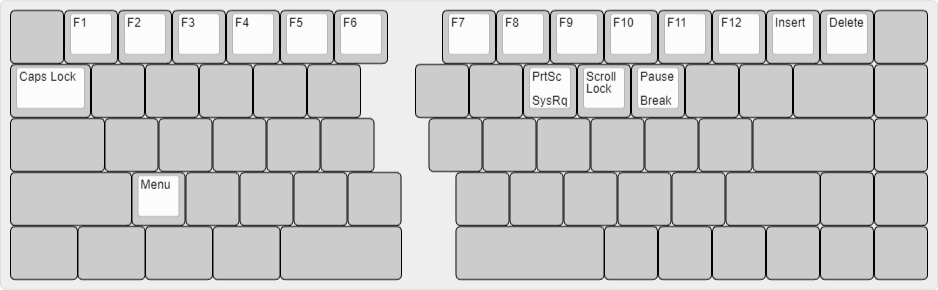
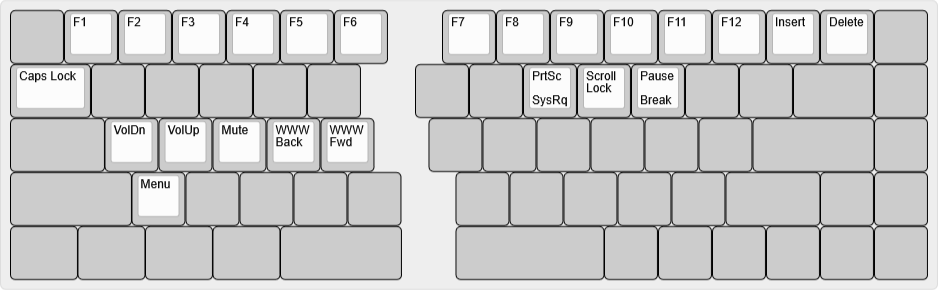
Standardize traditional volume keys

diff --git a/keyboards/keebio/quefrency/keymaps/bcat/keymap.c b/keyboards/keebio/quefrency/keymaps/bcat/keymap.c
@@ -17,15 +17,15 @@ const uint16_t PROGMEM keymaps[][MATRIX_ROWS][MATRIX_COLS] = {
     [LAYER_LOWER ... LAYER_RAISE] = LAYOUT_65(
         _______,  KC_F1,    KC_F2,    KC_F3,    KC_F4,    KC_F5,    KC_F6,    KC_F7,    KC_F8,    KC_F9,    KC_F10,   KC_F11,   KC_F12,   KC_INS,   KC_DEL,   _______,
         KC_CAPS,  _______,  _______,  _______,  _______,  _______,  _______,  _______,  KC_PSCR,  KC_SCRL,  KC_PAUS,  _______,  _______,  _______,            _______,
-        _______,  _______,  _______,  _______,  _______,  _______,  _______,  _______,  _______,  _______,  _______,  _______,            _______,            _______,
+        _______,  KC_VOLD,  KC_VOLU,  KC_MUTE,  KC_WBAK,  KC_WFWD,  _______,  _______,  _______,  _______,  _______,  _______,            _______,            _______,
         _______,  KC_APP,   _______,  _______,  _______,  _______,  _______,  _______,  _______,  _______,  _______,  _______,                      _______,  _______,
         _______,  _______,  _______,  _______,  _______,                      _______,  _______,  _______,  _______,  _______,            _______,  _______,  _______
     ),
     [LAYER_ADJUST] = LAYOUT_65(
         _______,  _______,  _______,  _______,  _______,  _______,  _______,  _______,  _______,  _______,  _______,  _______,  _______,  _______,  _______,  RGB_HUI,
-        _______,  _______,  KC_MPLY,  KC_VOLU,  KC_MSTP,  _______,  EE_CLR,   QK_BOOT,  _______,  _______,  _______,  _______,  _______,  _______,            RGB_SAI,
-        _______,  _______,  KC_MPRV,  KC_VOLD,  KC_MNXT,  _______,  _______,  _______,  _______,  _______,  _______,  _______,            RGB_TOG,            RGB_SAD,
-        _______,  _______,  _______,  KC_MUTE,  _______,  _______,  _______,  _______,  _______,  _______,  _______,  _______,                      RGB_VAI,  RGB_HUD,
+        _______,  _______,  _______,  _______,  _______,  _______,  EE_CLR,   QK_BOOT,  _______,  _______,  _______,  _______,  _______,  _______,            RGB_SAI,
+        _______,  _______,  _______,  _______,  _______,  _______,  _______,  _______,  _______,  _______,  _______,  _______,            RGB_TOG,            RGB_SAD,
+        _______,  _______,  _______,  _______,  _______,  _______,  _______,  _______,  _______,  _______,  _______,  _______,                      RGB_VAI,  RGB_HUD,
         _______,  _______,  _______,  _______,  _______,                      _______,  _______,  _______,  _______,  _______,            RGB_RMOD, RGB_VAD,  RGB_MOD
     ),
     // clang-format on

diff --git a/layouts/60_ansi_tsangan_split_bs_rshift/bcat/keymap.c b/layouts/60_ansi_tsangan_split_bs_rshift/bcat/keymap.c
@@ -17,15 +17,15 @@ const uint16_t PROGMEM keymaps[][MATRIX_ROWS][MATRIX_COLS] = {
     [LAYER_LOWER ... LAYER_RAISE] = LAYOUT_60_ansi_tsangan_split_bs_rshift(
         _______,  KC_F1,    KC_F2,    KC_F3,    KC_F4,    KC_F5,    KC_F6,    KC_F7,    KC_F8,    KC_F9,    KC_F10,   KC_F11,   KC_F12,   KC_INS,   KC_DEL,
         KC_CAPS,  _______,  _______,  _______,  _______,  _______,  _______,  _______,  KC_PSCR,  KC_SCRL,  KC_PAUS,  KC_UP,    _______,  _______,
-        _______,  _______,  _______,  _______,  _______,  _______,  _______,  _______,  KC_HOME,  KC_PGUP,  KC_LEFT,  KC_RGHT,            _______,
+        _______,  KC_VOLD,  KC_VOLU,  KC_MUTE,  KC_WBAK,  KC_WFWD,  _______,  _______,  KC_HOME,  KC_PGUP,  KC_LEFT,  KC_RGHT,            _______,
         _______,  KC_APP,   _______,  _______,  _______,  _______,  _______,  _______,  KC_END,   KC_PGDN,  KC_DOWN,  _______,                      _______,
         _______,  _______,  _______,                                _______,                                          _______,  _______,            _______
     ),
     [LAYER_ADJUST] = LAYOUT_60_ansi_tsangan_split_bs_rshift(
         _______,  _______,  _______,  _______,  _______,  _______,  _______,  _______,  _______,  _______,  _______,  _______,  _______,  _______,  _______,
-        _______,  _______,  KC_MPLY,  KC_VOLU,  KC_MSTP,  BL_BRTG,  EE_CLR,   QK_BOOT,  _______,  _______,  _______,  RGB_VAI,  _______,  _______,
-        _______,  _______,  KC_MPRV,  KC_VOLD,  KC_MNXT,  BL_UP,    _______,  RGB_SPI,  RGB_HUI,  RGB_SAI,  RGB_RMOD, RGB_MOD,            RGB_TOG,
-        _______,  _______,  _______,  KC_MUTE,  _______,  BL_DOWN,  _______,  RGB_SPD,  RGB_HUD,  RGB_SAD,  RGB_VAD,  _______,                      _______,
+        _______,  _______,  _______,  _______,  _______,  BL_BRTG,  EE_CLR,   QK_BOOT,  _______,  _______,  _______,  RGB_VAI,  _______,  _______,
+        _______,  _______,  _______,  _______,  _______,  BL_UP,    _______,  RGB_SPI,  RGB_HUI,  RGB_SAI,  RGB_RMOD, RGB_MOD,            RGB_TOG,
+        _______,  _______,  _______,  _______,  _______,  BL_DOWN,  _______,  RGB_SPD,  RGB_HUD,  RGB_SAD,  RGB_VAD,  _______,                      _______,
         _______,  _______,  _______,                                _______,                                          _______,  _______,            _______
     ),
     // clang-format on

diff --git a/layouts/60_ansi_split_bs_rshift/bcat/keymap.c b/layouts/60_ansi_split_bs_rshift/bcat/keymap.c
@@ -17,15 +17,15 @@ const uint16_t PROGMEM keymaps[][MATRIX_ROWS][MATRIX_COLS] = {
     [LAYER_LOWER ... LAYER_RAISE] = LAYOUT_60_ansi_split_bs_rshift(
         _______,  KC_F1,    KC_F2,    KC_F3,    KC_F4,    KC_F5,    KC_F6,    KC_F7,    KC_F8,    KC_F9,    KC_F10,   KC_F11,   KC_F12,   KC_INS,   KC_DEL,
         KC_CAPS,  _______,  _______,  _______,  _______,  _______,  _______,  _______,  KC_PSCR,  KC_SCRL,  KC_PAUS,  KC_UP,    _______,  _______,
-        _______,  _______,  _______,  _______,  _______,  _______,  _______,  _______,  KC_HOME,  KC_PGUP,  KC_LEFT,  KC_RGHT,            _______,
+        _______,  KC_VOLD,  KC_VOLU,  KC_MUTE,  KC_WBAK,  KC_WFWD,  _______,  _______,  KC_HOME,  KC_PGUP,  KC_LEFT,  KC_RGHT,            _______,
         _______,  KC_APP,   _______,  _______,  _______,  _______,  _______,  _______,  KC_END,   KC_PGDN,  KC_DOWN,  _______,                      _______,
         _______,  _______,  _______,                                _______,                                          _______,  _______,  _______,  _______
     ),
     [LAYER_ADJUST] = LAYOUT_60_ansi_split_bs_rshift(
         _______,  _______,  _______,  _______,  _______,  _______,  _______,  _______,  _______,  _______,  _______,  _______,  _______,  _______,  _______,
-        _______,  _______,  KC_MPLY,  KC_VOLU,  KC_MSTP,  BL_BRTG,  EE_CLR,   QK_BOOT,  _______,  _______,  _______,  RGB_VAI,  _______,  _______,
-        _______,  _______,  KC_MPRV,  KC_VOLD,  KC_MNXT,  BL_UP,    _______,  RGB_SPI,  RGB_HUI,  RGB_SAI,  RGB_RMOD, RGB_MOD,            RGB_TOG,
-        _______,  _______,  _______,  KC_MUTE,  _______,  BL_DOWN,  _______,  RGB_SPD,  RGB_HUD,  RGB_SAD,  RGB_VAD,  _______,                      _______,
+        _______,  _______,  _______,  _______,  _______,  BL_BRTG,  EE_CLR,   QK_BOOT,  _______,  _______,  _______,  RGB_VAI,  _______,  _______,
+        _______,  _______,  _______,  _______,  _______,  BL_UP,    _______,  RGB_SPI,  RGB_HUI,  RGB_SAI,  RGB_RMOD, RGB_MOD,            RGB_TOG,
+        _______,  _______,  _______,  _______,  _______,  BL_DOWN,  _______,  RGB_SPD,  RGB_HUD,  RGB_SAD,  RGB_VAD,  _______,                      _______,
         _______,  _______,  _______,                                _______,                                          _______,  _______,  _______,  _______
     ),
     // clang-format on

diff --git a/layouts/65_ansi_blocker_split_bs/bcat/keymap.c b/layouts/65_ansi_blocker_split_bs/bcat/keymap.c
@@ -16,9 +16,9 @@ const uint16_t PROGMEM keymaps[][MATRIX_ROWS][MATRIX_COLS] = {
     ),
     [LAYER_LOWER ... LAYER_ADJUST] = LAYOUT_65_ansi_blocker_split_bs(
         _______,  KC_F1,    KC_F2,    KC_F3,    KC_F4,    KC_F5,    KC_F6,    KC_F7,    KC_F8,    KC_F9,    KC_F10,   KC_F11,   KC_F12,   KC_INS,   KC_DEL,   _______,
-        KC_CAPS,  _______,  KC_MPLY,  KC_VOLU,  KC_MSTP,  _______,  EE_CLR,   QK_BOOT,  KC_PSCR,  KC_SCRL,  KC_PAUS,  _______,  _______,  _______,            _______,
-        _______,  _______,  KC_MPRV,  KC_VOLD,  KC_MNXT,  _______,  _______,  _______,  _______,  _______,  _______,  _______,            _______,            _______,
-        _______,  KC_APP,   _______,  KC_MUTE,  _______,  _______,  _______,  _______,  _______,  _______,  _______,  _______,                      _______,  _______,
+        KC_CAPS,  _______,  _______,  _______,  _______,  _______,  EE_CLR,   QK_BOOT,  KC_PSCR,  KC_SCRL,  KC_PAUS,  _______,  _______,  _______,            _______,
+        _______,  KC_VOLD,  KC_VOLU,  KC_MUTE,  KC_WBAK,  KC_WFWD,  _______,  _______,  _______,  _______,  _______,  _______,            _______,            _______,
+        _______,  KC_APP,   _______,  _______,  _______,  _______,  _______,  _______,  _______,  _______,  _______,  _______,                      _______,  _______,
         _______,  _______,  _______,                      _______,                                _______,  _______,                      _______,  _______,  _______
     ),
     // clang-format on

diff --git a/layouts/60_ansi_tsangan_split_bs_rshift/bcat/readme.md b/layouts/60_ansi_tsangan_split_bs_rshift/bcat/readme.md
@@ -18,9 +18,8 @@ switch](https://hhkb.io/components/controllers/) settings and a few more tweaks.
   feature](https://docs.qmk.fm/#/feature_tri_layer) commonly used on ortholinear
   keyboards, except that the Left Fn and Right Fn keys both active the same
   function layer when pressed on their own.)
-* The adjust layer contains reset keys, RGB underglow and backlight controls (in
-  place of the arrow and navigation keys), and media controls (centered around
-  the ESDF cluster).
+* The adjust layer contains reset keys, RGB underglow, and backlight controls
+  (in place of the arrow and navigation keys).
 * The leftmost and rightmost bottom row keys are mapped to Ctrl rather than
   anything more useful because many of my Tsangan PCBs have HHKB-layout plates
   and/or blockers, and so it's not even guaranteed there are switches installed

diff --git a/keyboards/keebio/quefrency/keymaps/bcat/readme.md b/keyboards/keebio/quefrency/keymaps/bcat/readme.md
@@ -1,8 +1,8 @@
 # bcat's Quefrency 65% layout
 
 This is a standard 65% keyboard layout, with a split spacebar, an HHKB-style
-(split) Backspace, media controls in the function layer (centered around the
-ESDF cluster), and RGB controls in the adjust layer (on the arrow/nav keys).
+(split) Backspace plus function layer, and RGB controls in the adjust layer (on
+the arrow/nav keys).
 
 | Default layer ([KLE](http://www.keyboard-layout-editor.com/#/gists/60a262432bb340b37d364a4424f3037b)) |
 | :-: |

diff --git a/layouts/65_ansi_blocker_split_bs/bcat/readme.md b/layouts/65_ansi_blocker_split_bs/bcat/readme.md
@@ -1,8 +1,7 @@
 # bcat's 65% ANSI layout with blocker and split Backspace
 
 This is a standard 65% keyboard layout, with a blocker to the left of the arrow
-keys, an HHKB-style (split) Backspace, and media controls in the function layer
-(centered around the ESDF cluster).
+keys and an HHKB-style (split) Backspace.
 
 | Default layer ([KLE](http://www.keyboard-layout-editor.com/#/gists/dd675b40cc4df2c7bb78847ac29f5988)) |
 | :-: |
